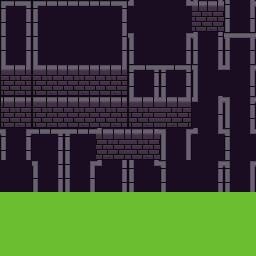
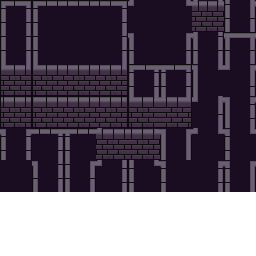
Added basic render distance system

Changed region(s): [[0.0, 0.75, 1.0, 1.0]]

diff --git a/core/src/com/ziamor/incadium/systems/Render/VisibilitySystem.java b/core/src/com/ziamor/incadium/systems/Render/VisibilitySystem.java
@@ -1,0 +1,65 @@
+package com.ziamor.incadium.systems.Render;
+
+import com.artemis.Aspect;
+import com.artemis.ComponentMapper;
+import com.artemis.E;
+import com.artemis.annotations.EntityId;
+import com.artemis.managers.TagManager;
+import com.artemis.systems.IteratingSystem;
+import com.badlogic.gdx.Gdx;
+import com.badlogic.gdx.math.MathUtils;
+import com.ziamor.incadium.components.Render.GroundTileComponent;
+import com.ziamor.incadium.components.Render.TerrainTileComponent;
+import com.ziamor.incadium.components.Render.TextureComponent;
+import com.ziamor.incadium.components.Render.TextureRegionComponent;
+import com.ziamor.incadium.components.TransformComponent;
+
+
+public class VisibilitySystem extends IteratingSystem {
+    @EntityId
+    protected int playerID = -1;
+    protected float renderRadius;
+    private TagManager tagManager;
+    private TransformComponent playerTransformComponent;
+
+    private ComponentMapper<TransformComponent> transformComponentMapper;
+
+    public VisibilitySystem(float renderRadius) {
+        super(Aspect.all(TransformComponent.class).one(TextureComponent.class, TextureRegionComponent.class, TerrainTileComponent.class, GroundTileComponent.class));
+        this.renderRadius = renderRadius;
+    }
+
+    @Override
+    protected void begin() {
+        super.begin();
+
+        //Try to get a player reference
+        if (playerID == -1)
+            playerID = tagManager.getEntityId("player");
+
+        // Check if we have a player reference
+        if (playerID != -1) {
+            playerTransformComponent = transformComponentMapper.get(playerID);
+        } else
+            playerTransformComponent = null;
+    }
+
+    @Override
+    protected void process(int entityId) {
+        final TransformComponent transformComponent = transformComponentMapper.get(entityId);
+
+        // Can't do anything without the player entity reference
+        if (playerID == -1 || playerTransformComponent == null)
+            return;
+
+        float x = transformComponent.x - playerTransformComponent.x;
+        float y = transformComponent.y - playerTransformComponent.y;
+
+        double distance = Math.sqrt(Math.pow(x, 2) + Math.pow(y, 2));
+
+        if (distance > renderRadius) {
+            E.E(entityId).notVisableComponent();
+        } else
+            E.E(entityId).removeNotVisableComponent();
+    }
+}

diff --git a/core/src/com/ziamor/incadium/systems/Render/RenderSystem.java b/core/src/com/ziamor/incadium/systems/Render/RenderSystem.java
@@ -5,6 +5,7 @@ import com.artemis.ComponentMapper;
 import com.badlogic.gdx.Gdx;
 import com.badlogic.gdx.graphics.g2d.SpriteBatch;
 import com.badlogic.gdx.math.Vector2;
+import com.ziamor.incadium.components.Render.NotVisableComponent;
 import com.ziamor.incadium.components.Render.TextureRegionComponent;
 import com.ziamor.incadium.components.Movement.MovementLerpComponent;
 import com.ziamor.incadium.components.Render.TextureComponent;
@@ -18,12 +19,11 @@ public class RenderSystem extends SortedIteratingSystem {
     ComponentMapper<TextureRegionComponent> textureRegionComponentComponentMapper;
     ComponentMapper<TransformComponent> transformComponentComponentMapper;
     ComponentMapper<MovementLerpComponent> movementLerpComponentComponentMapper;
-
     private SpriteBatch batch;
     private Vector2 pos;
 
     public RenderSystem(SpriteBatch batch) {
-        super(Aspect.all(TransformComponent.class).one(TextureComponent.class, TextureRegionComponent.class));
+        super(Aspect.all(TransformComponent.class).one(TextureComponent.class, TextureRegionComponent.class).exclude(NotVisableComponent.class));
         this.batch = batch;
         this.pos = new Vector2();
     }
@@ -34,6 +34,8 @@ public class RenderSystem extends SortedIteratingSystem {
         TextureRegionComponent textureRegionComponent = textureRegionComponentComponentMapper.get(e);
         TransformComponent transformComponent = transformComponentComponentMapper.get(e);
         MovementLerpComponent movementLerpComponent = movementLerpComponentComponentMapper.get(e);
+
+
 
         // Get the render position
         if (movementLerpComponent != null)

diff --git a/core/src/com/ziamor/incadium/Screens/GamePlayScreen.java b/core/src/com/ziamor/incadium/Screens/GamePlayScreen.java
@@ -27,6 +27,7 @@ import com.ziamor.incadium.components.NonComponents.HealthBarUI;
 import com.ziamor.incadium.Incadium;
 import com.ziamor.incadium.systems.Combat.AttackSystem;
 import com.ziamor.incadium.systems.Render.AnimationSystem;
+import com.ziamor.incadium.systems.Render.VisibilitySystem;
 import com.ziamor.incadium.systems.TargetCameraSystem;
 import com.ziamor.incadium.systems.UI.HealthBarUISystem;
 import com.ziamor.incadium.systems.Util.BlockPlayerInputSystem;
@@ -92,6 +93,7 @@ public class GamePlayScreen implements Screen {
                 // Setup Systems
                 new MapSystem(),
                 // Render Systems
+                new VisibilitySystem(5),
                 new AnimationSystem(),
                 new TerrainRenderSystem(batch),
                 new RenderSystem(batch),
@@ -103,7 +105,7 @@ public class GamePlayScreen implements Screen {
                 // Movement Systems
                 new MovementSystem(),
                 new MovementLerpSystem(),
-                new FollowSystem(),
+                //new FollowSystem(),
                 // Attack Systems
                 new AttackSystem(),
                 //Health System

diff --git a/core/src/com/ziamor/incadium/systems/Render/TerrainRenderSystem.java b/core/src/com/ziamor/incadium/systems/Render/TerrainRenderSystem.java
@@ -5,6 +5,7 @@ import com.artemis.ComponentMapper;
 import com.artemis.systems.IteratingSystem;
 import com.badlogic.gdx.graphics.g2d.SpriteBatch;
 import com.ziamor.incadium.components.Render.GroundTileComponent;
+import com.ziamor.incadium.components.Render.NotVisableComponent;
 import com.ziamor.incadium.components.Render.TerrainTileComponent;
 import com.ziamor.incadium.components.TransformComponent;
 
@@ -16,7 +17,7 @@ public class TerrainRenderSystem extends IteratingSystem {
     private SpriteBatch batch;
 
     public TerrainRenderSystem(SpriteBatch batch) {
-        super(Aspect.all(TransformComponent.class).one(TerrainTileComponent.class, GroundTileComponent.class));
+        super(Aspect.all(TransformComponent.class).one(TerrainTileComponent.class, GroundTileComponent.class).exclude(NotVisableComponent.class));
         this.batch = batch;
     }
 

diff --git a/components/src/com/ziamor/incadium/components/Render/NotVisableComponent.java b/components/src/com/ziamor/incadium/components/Render/NotVisableComponent.java
@@ -1,0 +1,7 @@
+package com.ziamor.incadium.components.Render;
+
+import com.artemis.Component;
+
+
+public class NotVisableComponent extends Component {
+}
